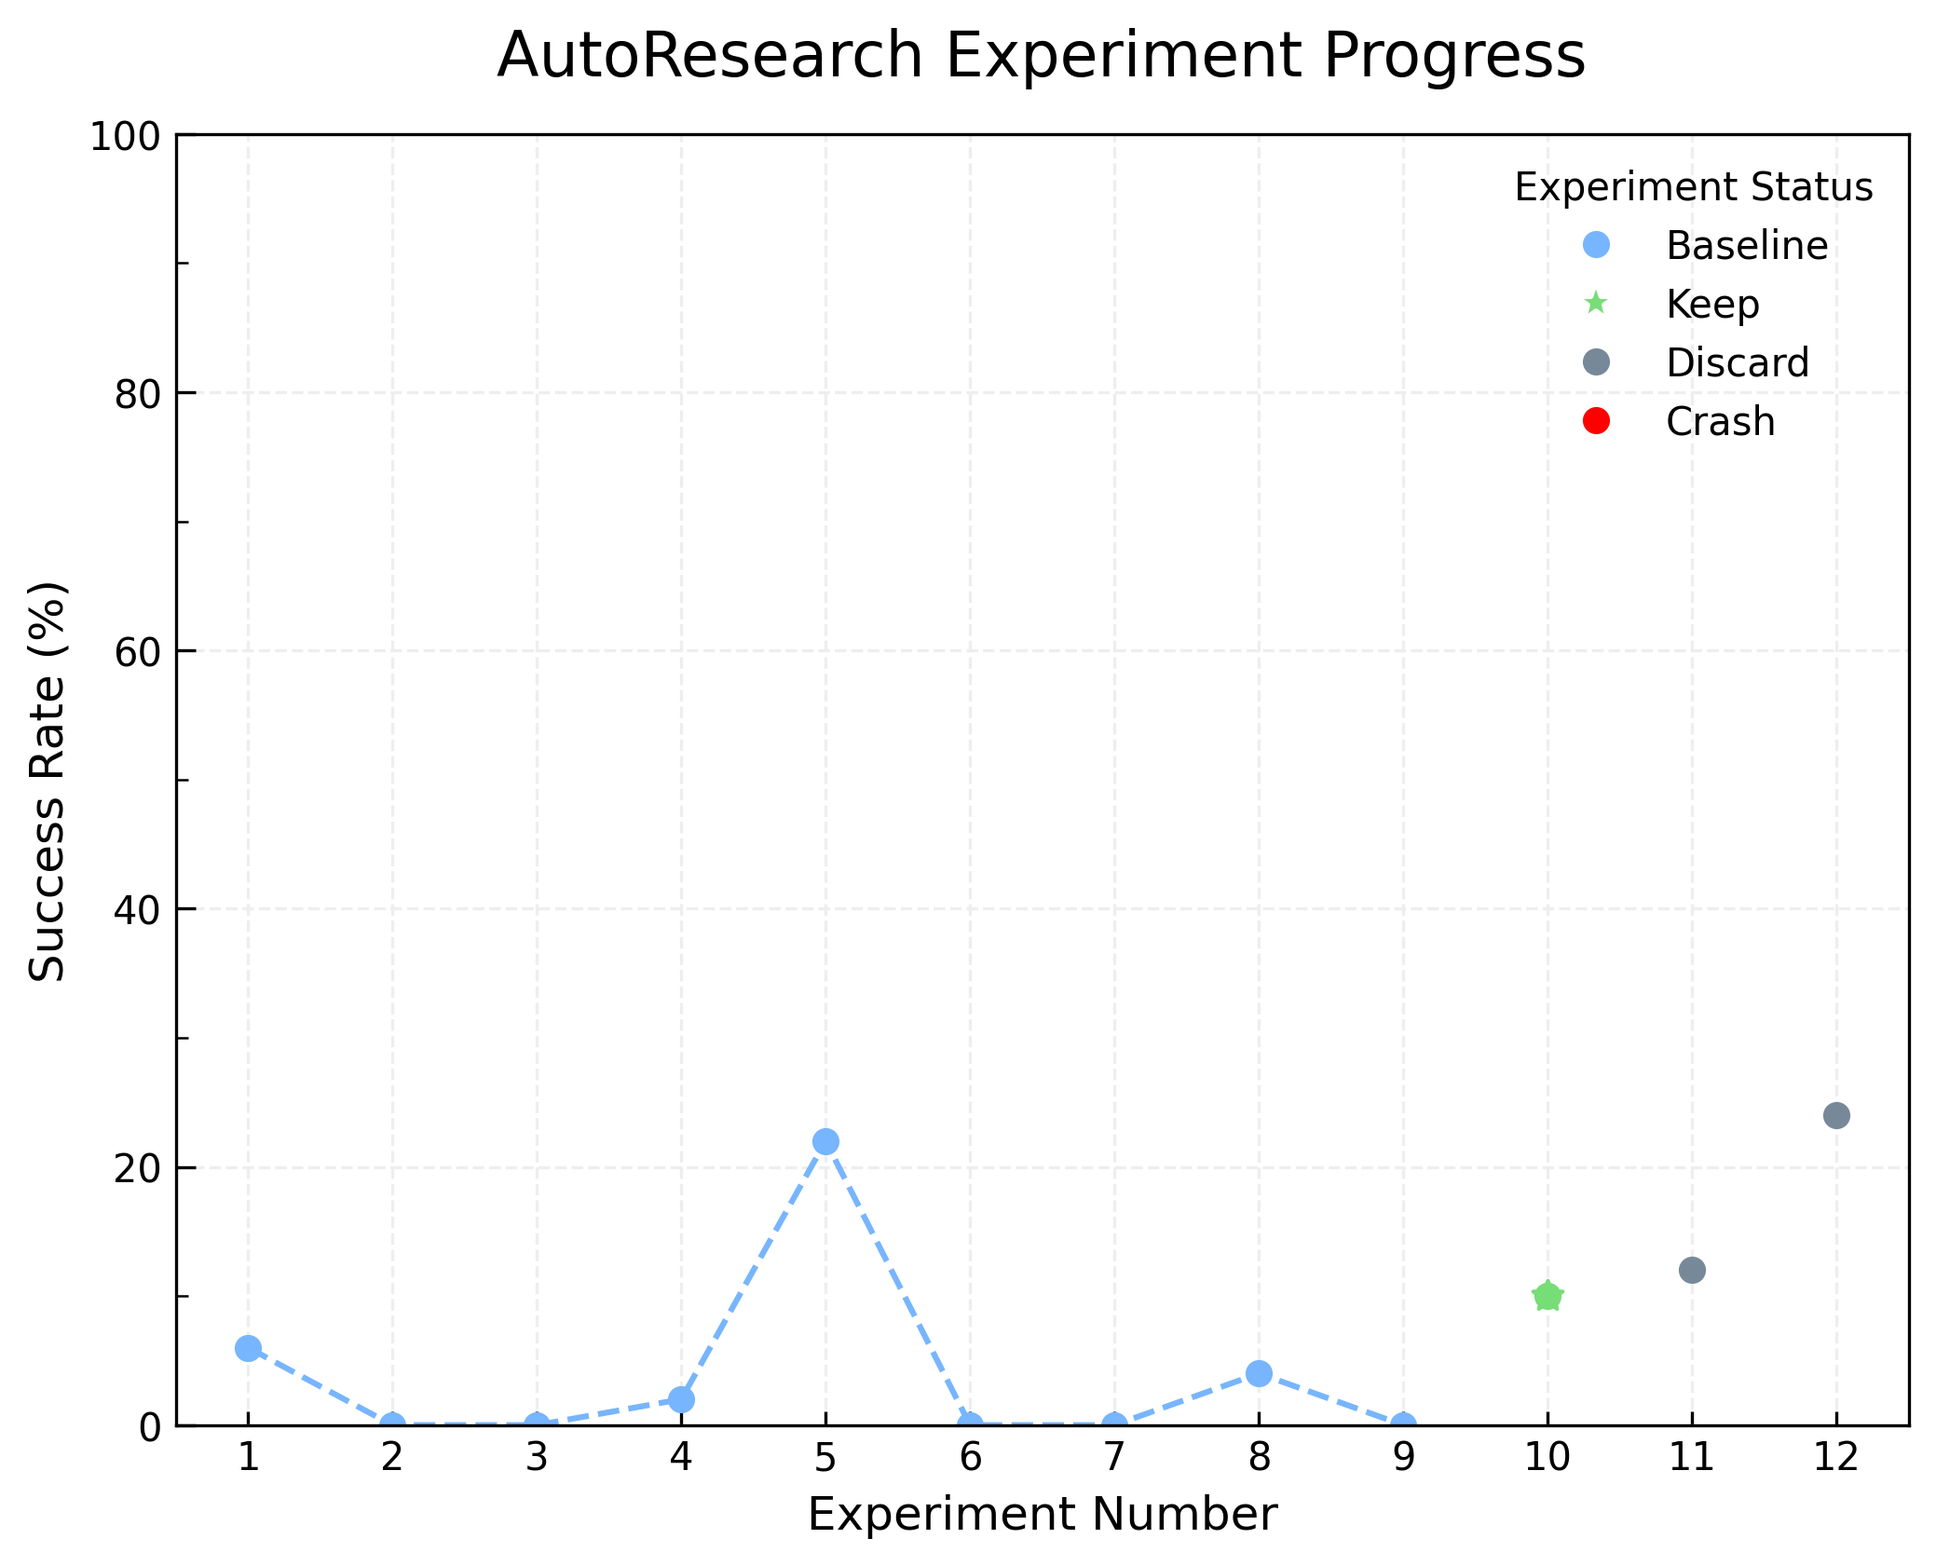
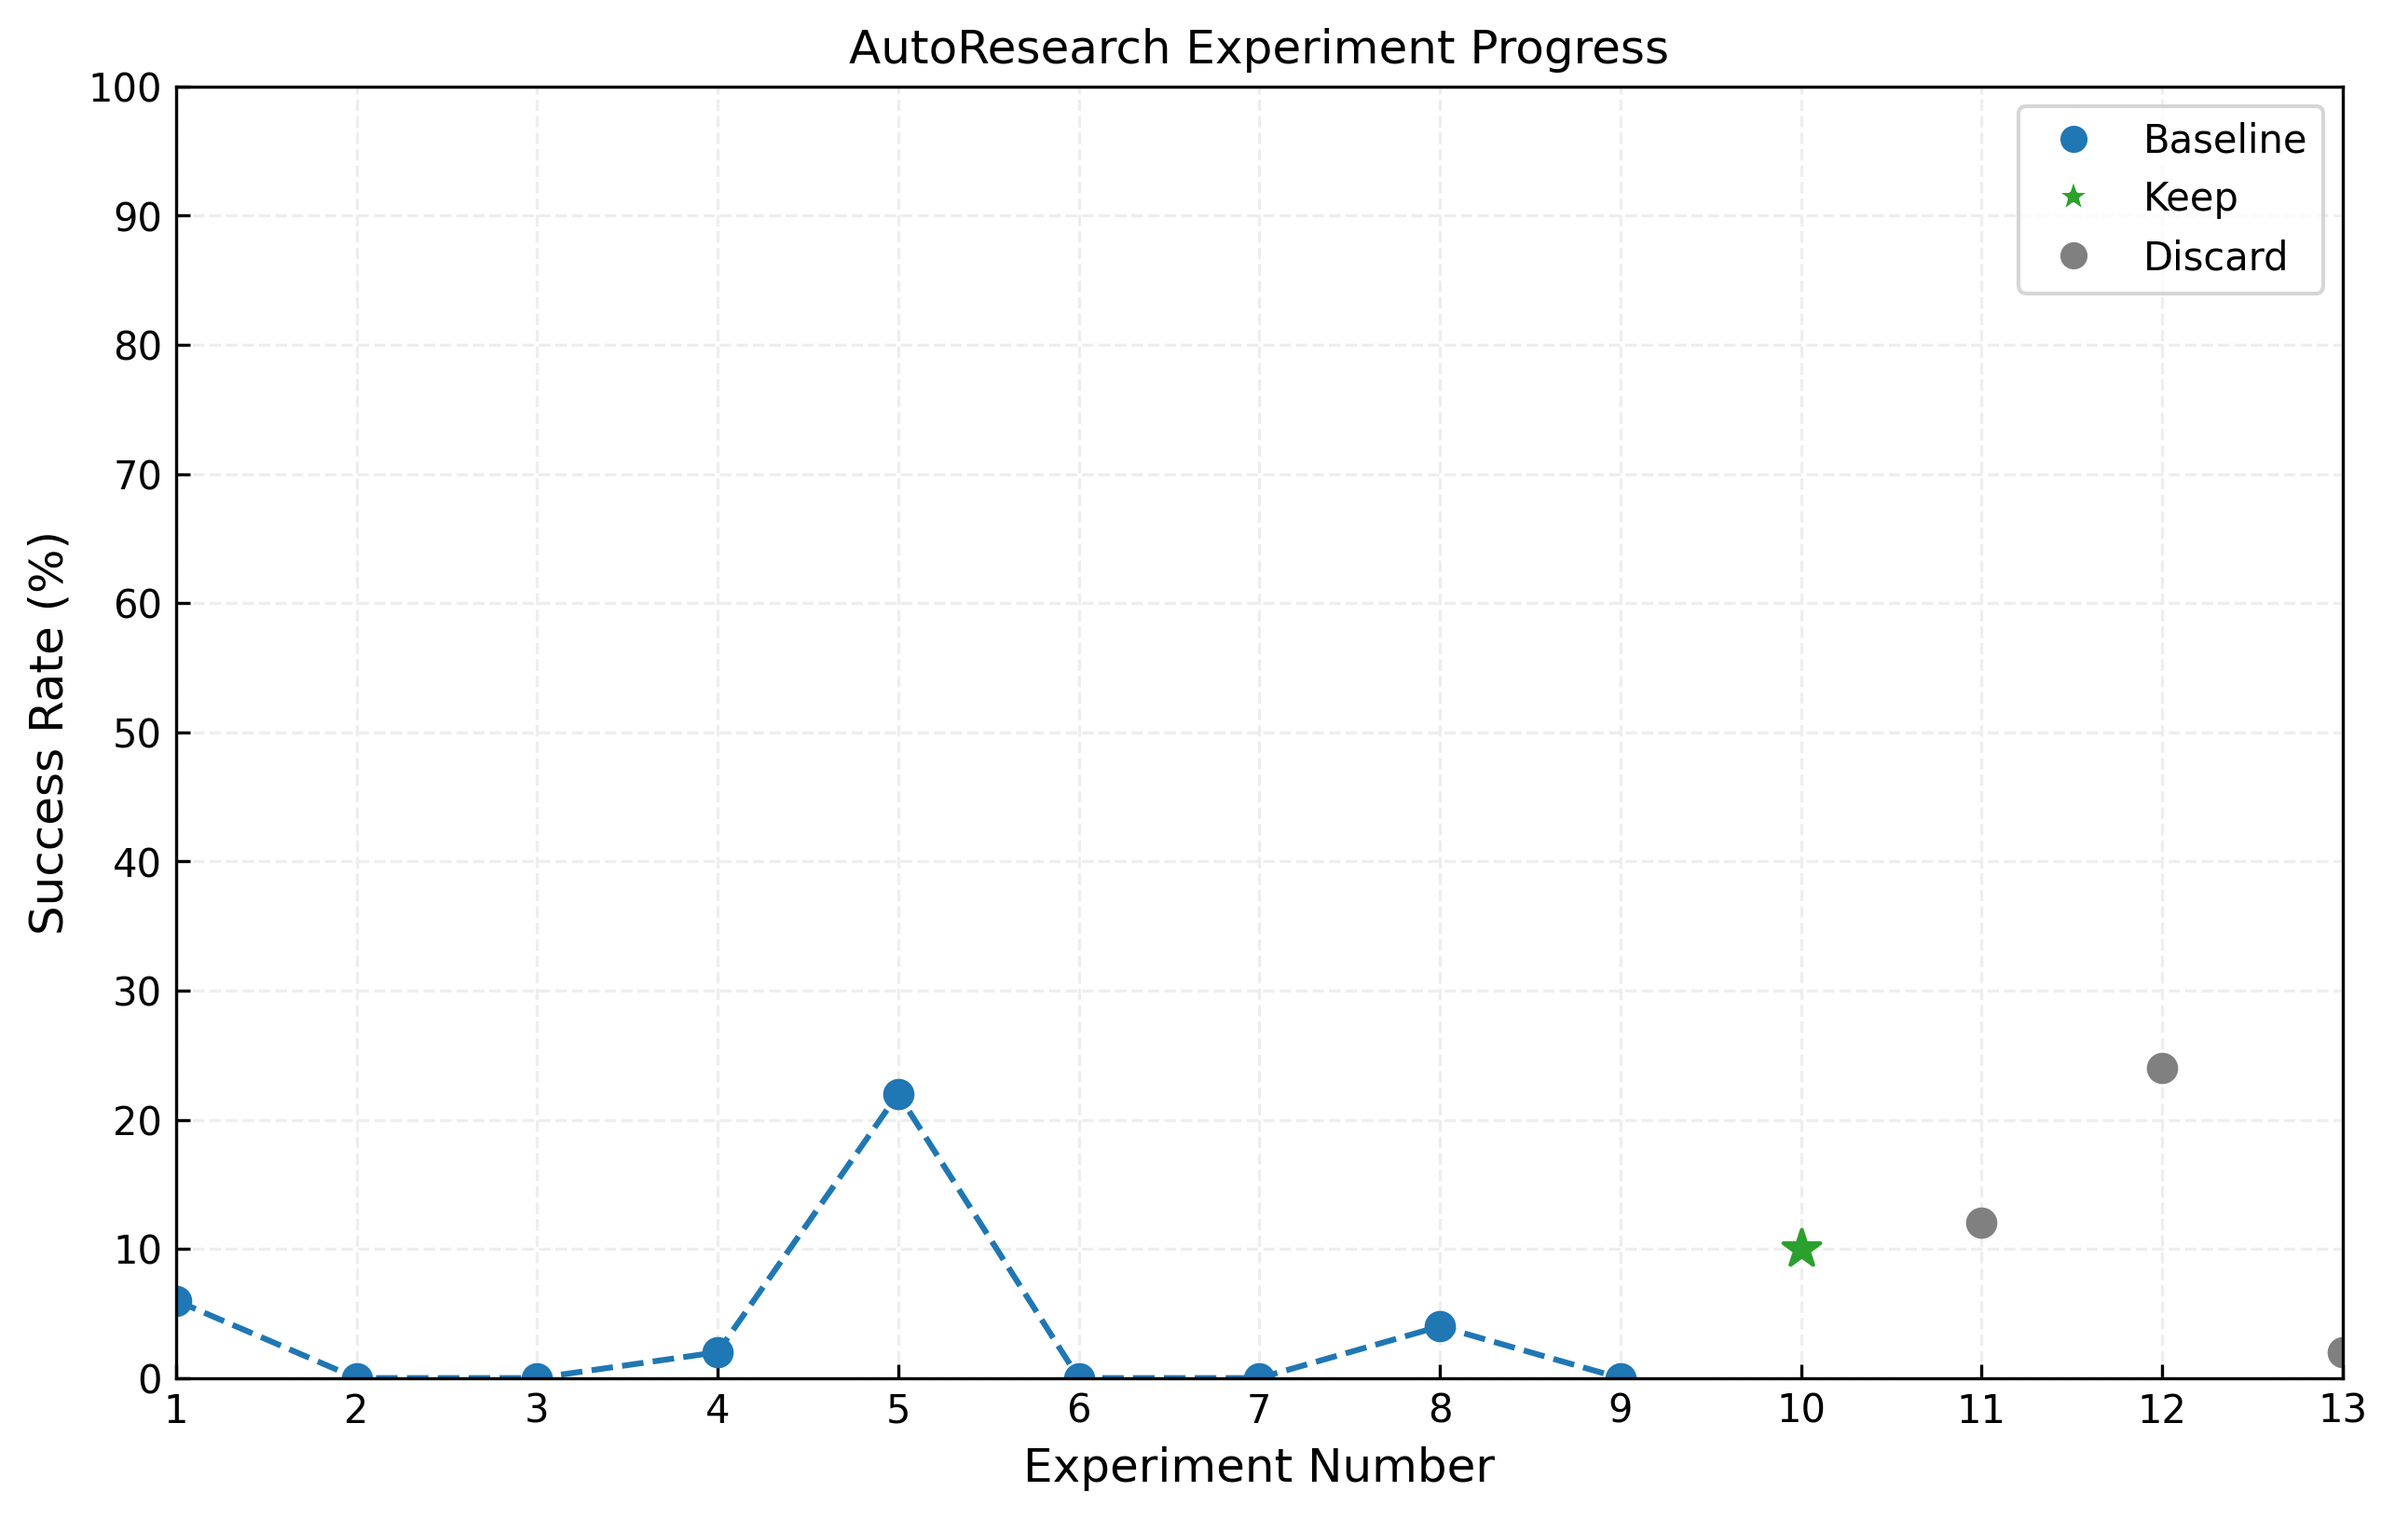
results: 13 experiments — auto-sync

diff --git a/RESULTS.md b/RESULTS.md
@@ -1,6 +1,6 @@
 # AutoResearch-MRL: Live Results
 
-> Last updated: **2026-03-16 00:23 UTC** | auto-generated every 5 min
+> Last updated: **2026-03-16 00:36 UTC** | auto-generated every 5 min
 
 ## Summary
 
@@ -9,8 +9,8 @@
 | **Current Phase** | Phase 2: Optimization |
 | Total experiments | 13 |
 | Baselines complete | 9 / 9 |
-| Improvements kept | 2 |
-| Discarded | 2 |
+| Improvements kept | 1 |
+| Discarded | 3 |
 | Crashes | 0 |
 | Total GPU time | 636 min (10.6 hrs) |
 
@@ -75,7 +75,7 @@
 | 10 | `02f0c05` | diffusion | PushT-v0 | 10.0% | 39.5 | **KEEP** | lr=5e-5 |
 | 11 | `dde6bcb` | diffusion | PushT-v0 | 12.0% | 47.1 | discard | lr=5e-4 |
 | 12 | `a545da1` | diffusion | PushT-v0 | 24.0% | 61.1 | discard | batch_size=32 |
-| 13 | `b3328dd` | act | PushT-v0 | 2.0% | 28.7 | **KEEP** | lr=1e-3 |
+| 13 | `b3328dd` | act | PushT-v0 | 2.0% | 28.7 | discard | lr=1e-3 |
 
 </details>
 
